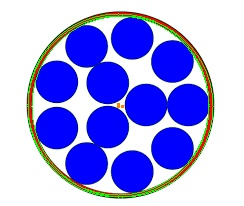
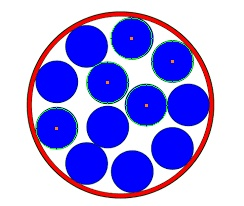
Final commit for circles.py

diff --git a/circles.py b/circles.py
@@ -15,9 +15,9 @@ if args["image"] is None:
 else:
     loc = args["image"]
 
-image = cv2.imread(loc)
-output = image.copy()
-gray = cv2.cvtColor(image, cv2.COLOR_BGR2GRAY)
+im = cv2.imread(loc)
+output = im.copy()
+gray = cv2.cvtColor(im, cv2.COLOR_BGR2GRAY)
 
 ret, thresh = cv2.threshold(gray, 205, 255, cv2.THRESH_BINARY)
 
@@ -25,11 +25,11 @@ cv2.imwrite(loc.split(".")[0]+"_threshold.jpg", thresh)
 print("Threshold image written in file system")
 
 print("Getting circles from Threshold image.")
-circles = cv2.HoughCircles(thresh, cv2.HOUGH_GRADIENT, 1.2, 100)
+circles = cv2.HoughCircles(thresh, cv2.HOUGH_GRADIENT, 1.2, 15)
 
 if circles is None:
     print("No Circles were found hence trying with the gray scale.")
-    circles = cv2.HoughCircles(gray, cv2.HOUGH_GRADIENT, 1.2, 100)
+    circles = cv2.HoughCircles(gray, cv2.HOUGH_GRADIENT, 1.2, 15)
 
 if circles is not None:
     circles = np.round(circles[0, :]).astype("int")
